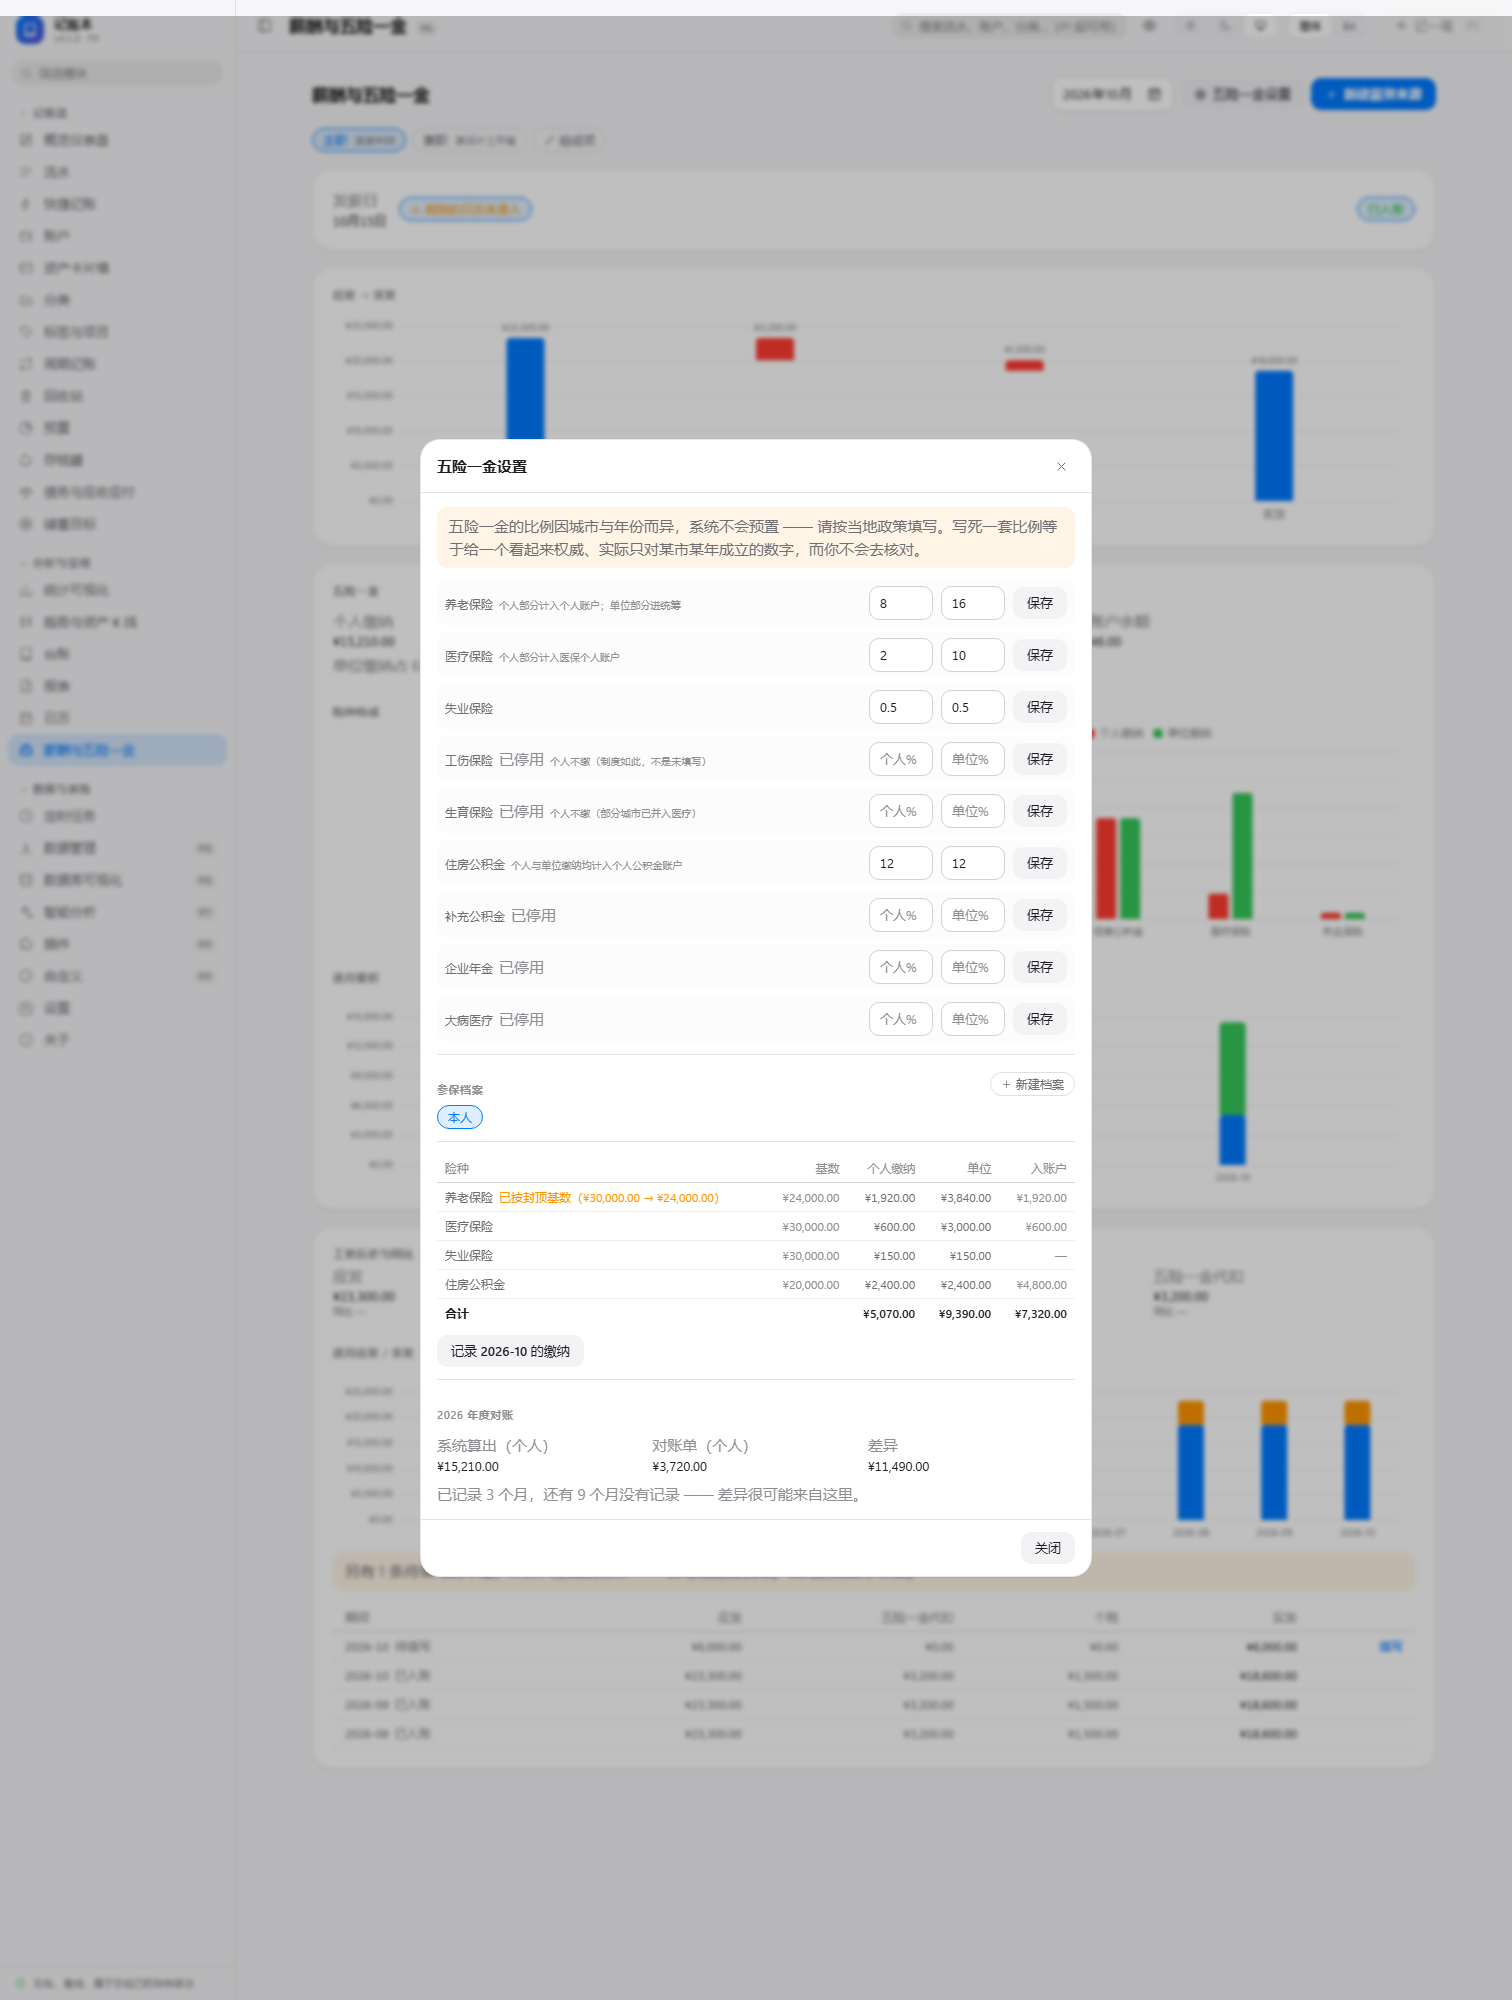
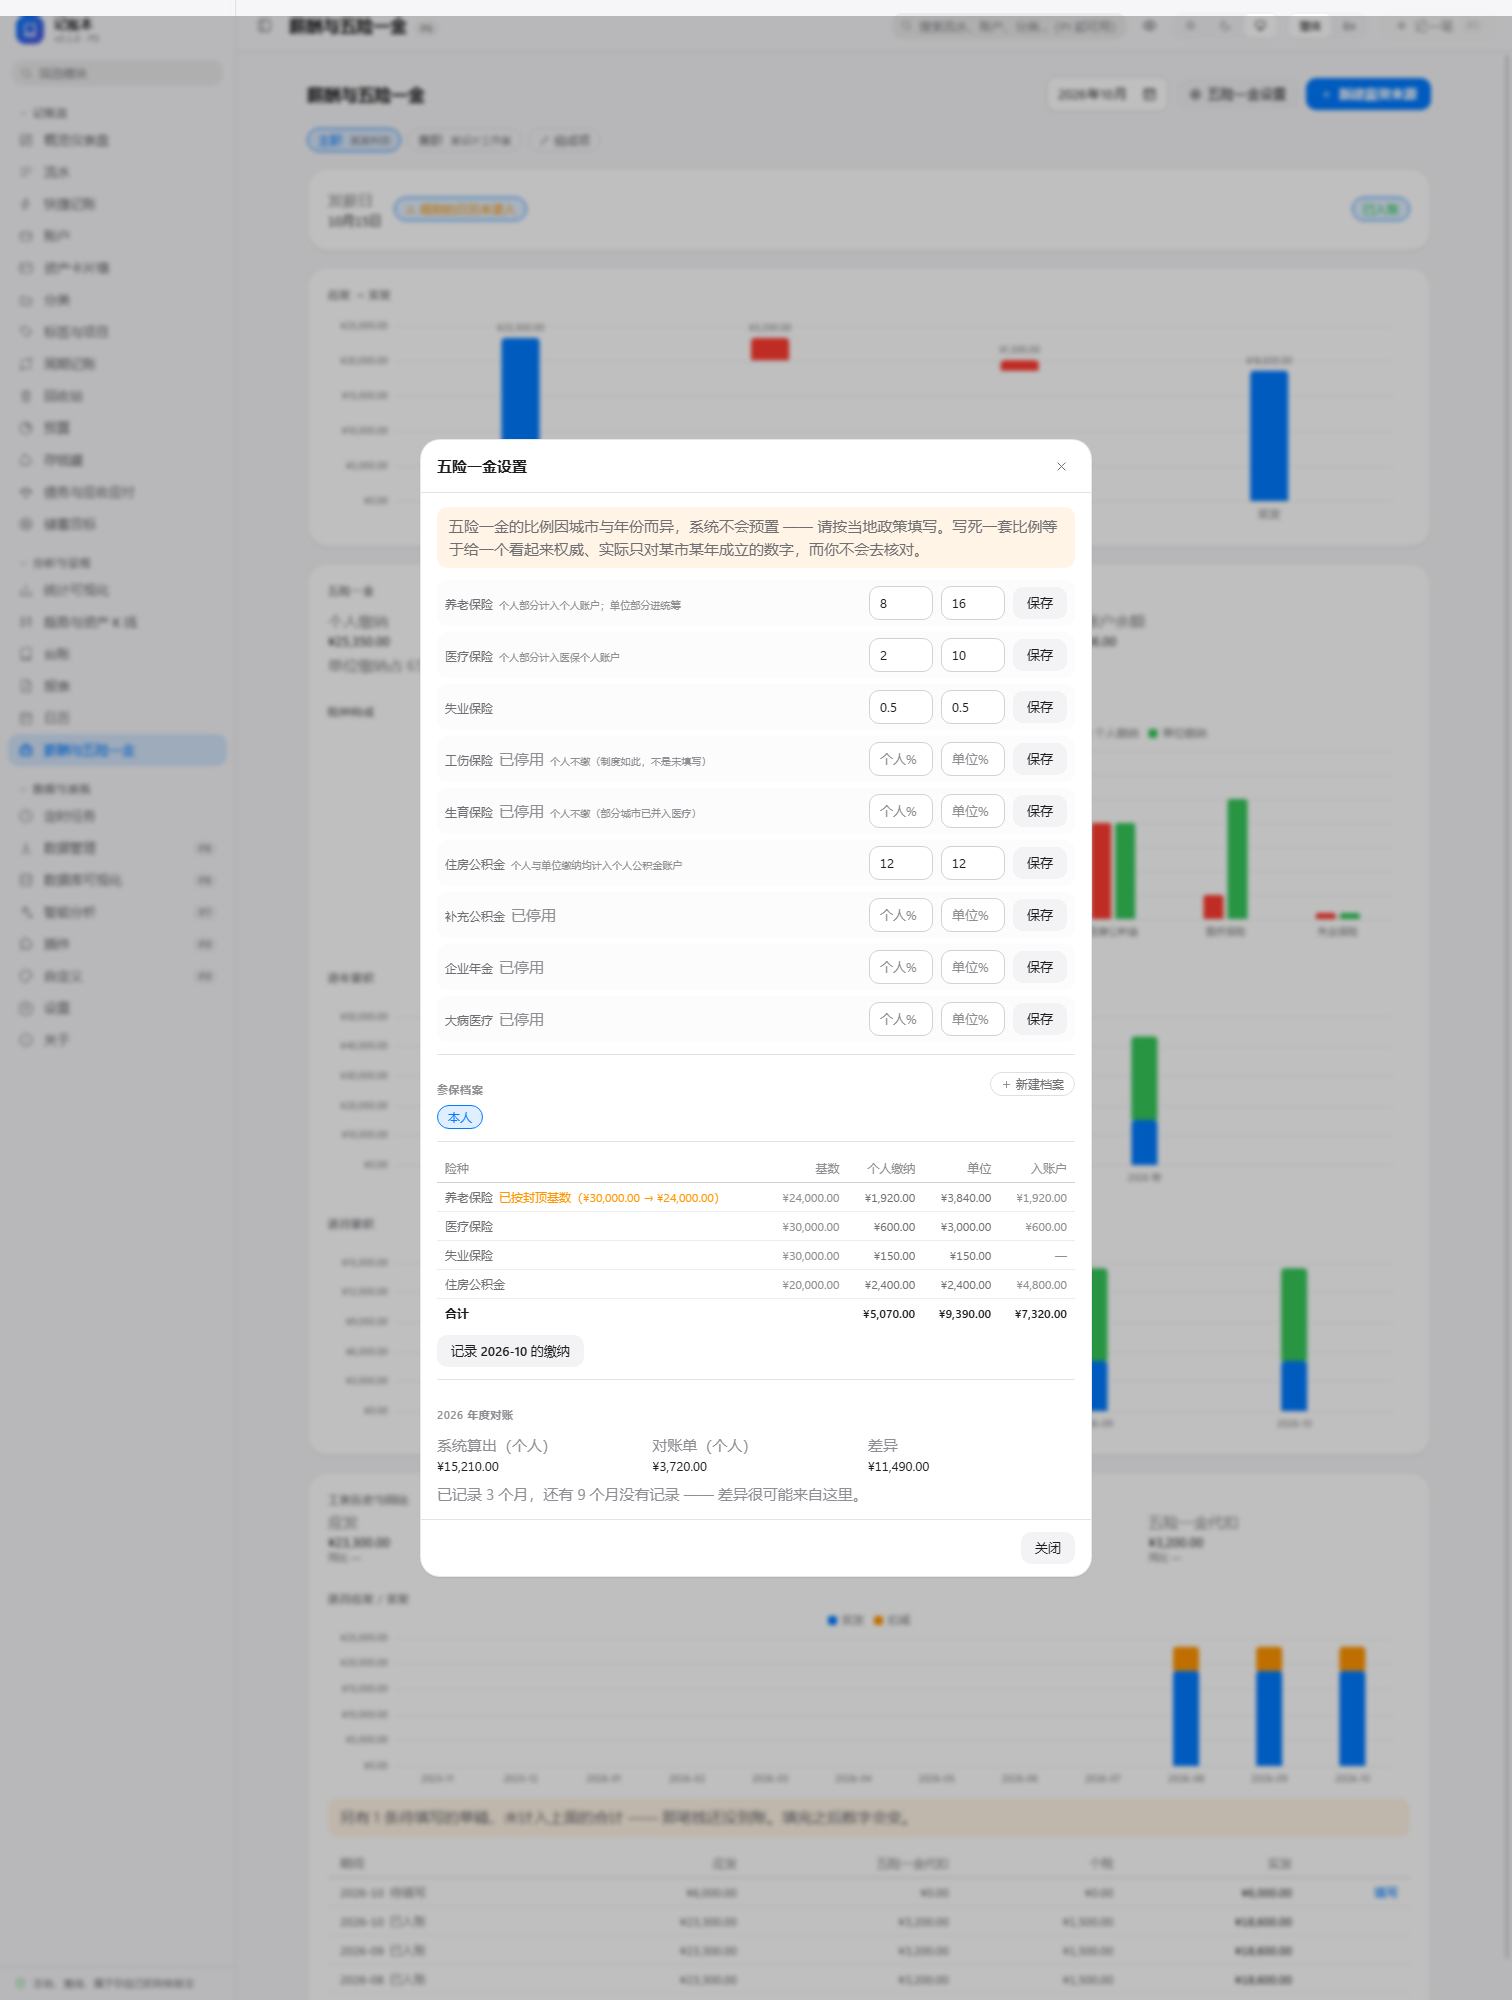
feat(P6): 补「逐年累积」+ PyInstaller 冒烟（打包产物上 18 项真实断言）
补上 objective 里明确要求、而我之前做窄了的一项
=============================================
原本只有「近 12 个月逐月累积」，而 objective 写的是**逐年累积** ——
两者不是同一件事：按月的柱看节奏，按年的柱看趋势，
而**跨年的比例调整只有在按年图上才看得出来**（五险一金比例每年会调）。

* `insurance_overview` 新增 `by_year` 聚合；
* `/payroll` 同时给出**逐年累积**与逐月累积两张图，各自标注；
* `cumulativeOption` 的图例名与 stack 改成参数（原先硬编码"个人 / 单位"，
  用到别的口径上就会说谎）；
* 补两条用例：跨年聚合正确、无记录时 `by_year` 为空。

PyInstaller 冒烟
================
`packaging/build_backend.ps1` 构建通过（58.8 MB），内置冒烟通过。
P5 的冻结验证仍全通过（7 项），说明 P6 没有破坏报告与导出链路
（含冻结环境下的 `reportlab`）。

新增 **`verify-frozen-p6.ps1`：在打包产物上跑 18 项真实断言**，
覆盖薪酬 / 五险一金 / 定时任务 / 报表 `payroll` 一节 ——
断言的是**算出来的数字**（应发 20000 / 实发 18500、养老 8% × 封顶后基数 = 640 元、
公积金双方各 12% = 2400 元、幂等后余额不翻倍），而不只是"接口返回 200"。

**这份脚本我自己先写错了两条断言，已修正：**
* `Check '立即执行生成工资草稿' { ... -or $true }` —— **永远为真**。
  一个不可能失败的检查比没有检查更糟：它会让人以为这条路径验证过了。
  改为断言 `status == 'success'` 且 `manual == true` 且执行历史有记录。
* `Check '稍后提醒有上限、跳过必须给原因'` 只断言了"通知数 ≥ 1"，
  名字里承诺的两件事一件都没测。改为真的循环四次、断言第四次返回 409，
  以及空原因被拒 422、给了原因才留下 `skip_reason`。

顺带修的两处
============
* 报表接口是 `GET /api/reports?kind=&include=`，我最初按 `POST /api/reports/build`
  调用，拿到 405 —— 这也是上面两条 FAIL 的原因（不是产品缺陷，是我调错了接口）。
* 截图脚本补灌去年的缴纳：只有一年数据时，逐年图与逐月图看起来是同一件事。

验证
====
`pytest` 全绿（五险一金用例 36 → 38，P6 合计 208 项），`ruff` 干净，
`tsc --noEmit` 干净，`vite build` 通过，5 张截图重拍并**逐张核对**
（逐年累积图现在是 2025 / 2026 两根柱；发薪日置信度 chip 缩短后
与状态 chip 的挤压也消失了）。

diff --git a/web/src/pages/Payroll.tsx b/web/src/pages/Payroll.tsx
@@ -224,6 +224,8 @@ function monthlyPayrollOption(
 function cumulativeOption(
   rows: { period: string; personal_minor: number; employer_minor: number }[],
   formatValue: (value: unknown) => string,
+  labels: { personal: string; employer: string },
+  stack: string,
 ) {
   const axis = resolveToken('text-3')
   const split = resolveToken('separator')
@@ -245,17 +247,17 @@ function cumulativeOption(
     },
     series: [
       {
-        name: '个人',
+        name: labels.personal,
         type: 'bar',
-        stack: 'total',
+        stack,
         barMaxWidth: 26,
         itemStyle: { color: resolveToken('accent') },
         data: rows.map((row) => row.personal_minor),
       },
       {
-        name: '单位',
+        name: labels.employer,
         type: 'bar',
-        stack: 'total',
+        stack,
         barMaxWidth: 26,
         itemStyle: { color: resolveToken('positive') },
         data: rows.map((row) => row.employer_minor),
@@ -652,11 +654,37 @@ export function PayrollPage() {
                     />
                   </div>
                 </div>
+                {/* **逐年累积**：与逐月图各说一件事 ——
+                    按月看节奏，按年看趋势。跨年的比例调整只有在按年图上才看得出来。 */}
+                {insurance.by_year.length > 0 ? (
+                  <div className="mt-3">
+                    <div className="ab-section-label !px-0">{t('payroll.byYear')}</div>
+                    <Chart
+                      option={cumulativeOption(
+                        insurance.by_year.map((row) => ({
+                          period: t('payroll.yearLabel', { year: row.year }),
+                          personal_minor: row.personal_minor,
+                          employer_minor: row.employer_minor,
+                        })),
+                        formatValue,
+                        { personal: t('payroll.personal'), employer: t('payroll.employerPaid') },
+                        'year',
+                      )}
+                      height={200}
+                    />
+                  </div>
+                ) : null}
+
                 {insurance.by_period.length > 1 ? (
                   <div className="mt-3">
                     <div className="ab-section-label !px-0">{t('payroll.cumulative')}</div>
                     <Chart
-                      option={cumulativeOption(insurance.by_period, formatValue)}
+                      option={cumulativeOption(
+                        insurance.by_period,
+                        formatValue,
+                        { personal: t('payroll.personal'), employer: t('payroll.employerPaid') },
+                        'period',
+                      )}
                       height={200}
                     />
                   </div>

diff --git a/web/src/lib/api.ts b/web/src/lib/api.ts
@@ -1876,6 +1876,8 @@ export interface InsuranceOverview {
   employer_share: number | null
   by_kind: { kind: string; name: string; personal_minor: number; employer_minor: number }[]
   by_period: { period: string; personal_minor: number; employer_minor: number }[]
+  /** 按年聚合：跨年的趋势只有按年才看得出来（比例每年会调） */
+  by_year: { year: string; personal_minor: number; employer_minor: number }[]
   account_balances: Record<string, number>
   account_total_minor: number
   profile_count: number

diff --git a/web/src/i18n/en-US.ts b/web/src/i18n/en-US.ts
@@ -1153,6 +1153,8 @@ export const enUS = {
     employerShare: 'Employer pays {percent}% (this never touches your payslip, but it is yours)',
     byKind: 'By item',
     compare: 'Employer vs employee',
+    byYear: 'Yearly accumulation',
+    yearLabel: '{year}',
     cumulative: 'Monthly accumulation',
     history: 'History & year-over-year',
     yoy: 'YoY',

diff --git a/web/src/i18n/zh-CN.ts b/web/src/i18n/zh-CN.ts
@@ -1127,6 +1127,8 @@ export const zhCN = {
     employerShare: '单位缴纳占 {percent}%（这部分没进工资卡，但确实属于你）',
     byKind: '险种构成',
     compare: '单位 vs 个人',
+    byYear: '逐年累积',
+    yearLabel: '{year} 年',
     cumulative: '逐月累积',
     history: '工资历史与同比',
     yoy: '同比',

diff --git a/tests/test_insurance.py b/tests/test_insurance.py
@@ -440,6 +440,29 @@ class TestOverview:
         kinds = [item["kind"] for item in body["by_kind"]]
         assert kinds[0] == "pension"  # 金额大的排前面
 
+    def test_by_year_aggregates_across_months(self, session) -> None:
+        """**按年聚合**：缴纳是长期积累，而跨年的比例调整只有在按年图上才看得出来。
+
+        与 `by_period` 各说一件事 —— 按月看节奏，按年看趋势。
+        """
+        profile = _profile(session)
+        insurance.upsert_item(session, kind="pension", personal_rate_bps=800)
+        for period in ("2025-11", "2025-12", "2026-01", "2026-02"):
+            insurance.record_contribution(session, profile.id, period)
+        body = insurance.insurance_overview(session, start_period="2025-01", end_period="2026-12")
+        years = {row["year"]: row for row in body["by_year"]}
+        assert sorted(years) == ["2025", "2026"]
+        # 养老个人 8% x 10000 = 800 元/月
+        assert years["2025"]["personal_minor"] == 160_000
+        assert years["2026"]["personal_minor"] == 160_000
+        # 四个月都在，但分成两年
+        assert len(body["by_period"]) == 4
+
+    def test_by_year_is_empty_without_records(self, session) -> None:
+        _profile(session)
+        body = insurance.insurance_overview(session, start_period="2026-01", end_period="2026-12")
+        assert body["by_year"] == []
+
     def test_range_filters_periods(self, session) -> None:
         profile = _profile(session)
         insurance.upsert_item(session, kind="pension", personal_rate_bps=800)

diff --git a/src/accountbook/services/insurance.py b/src/accountbook/services/insurance.py
@@ -867,6 +867,14 @@ def insurance_overview(session: Session, *, start_period: str, end_period: str) 
         period_bucket["personal_minor"] += row.personal_minor
         period_bucket["employer_minor"] += row.employer_minor
 
+    # **按年聚合**：缴纳是长期积累，单月数字没什么意义，
+    # 而跨年的趋势只有按年才看得出来（比例每年会调）。
+    by_year: dict[str, dict[str, int]] = {}
+    for row in rows:
+        year_bucket = by_year.setdefault(row.period[:4], {"personal_minor": 0, "employer_minor": 0})
+        year_bucket["personal_minor"] += row.personal_minor
+        year_bucket["employer_minor"] += row.employer_minor
+
     personal = sum(bucket["personal_minor"] for bucket in by_kind.values())
     employer = sum(bucket["employer_minor"] for bucket in by_kind.values())
     profiles = list_profiles(session, include_disabled=True)
@@ -887,6 +895,7 @@ def insurance_overview(session: Session, *, start_period: str, end_period: str) 
             by_kind.values(), key=lambda item: -(item["personal_minor"] + item["employer_minor"])
         ),
         "by_period": [{"period": key, **value} for key, value in sorted(by_period.items())],
+        "by_year": [{"year": key, **value} for key, value in sorted(by_year.items())],
         "account_balances": balances,
         "account_total_minor": sum(balances.values()),
         "profile_count": len(profiles),
